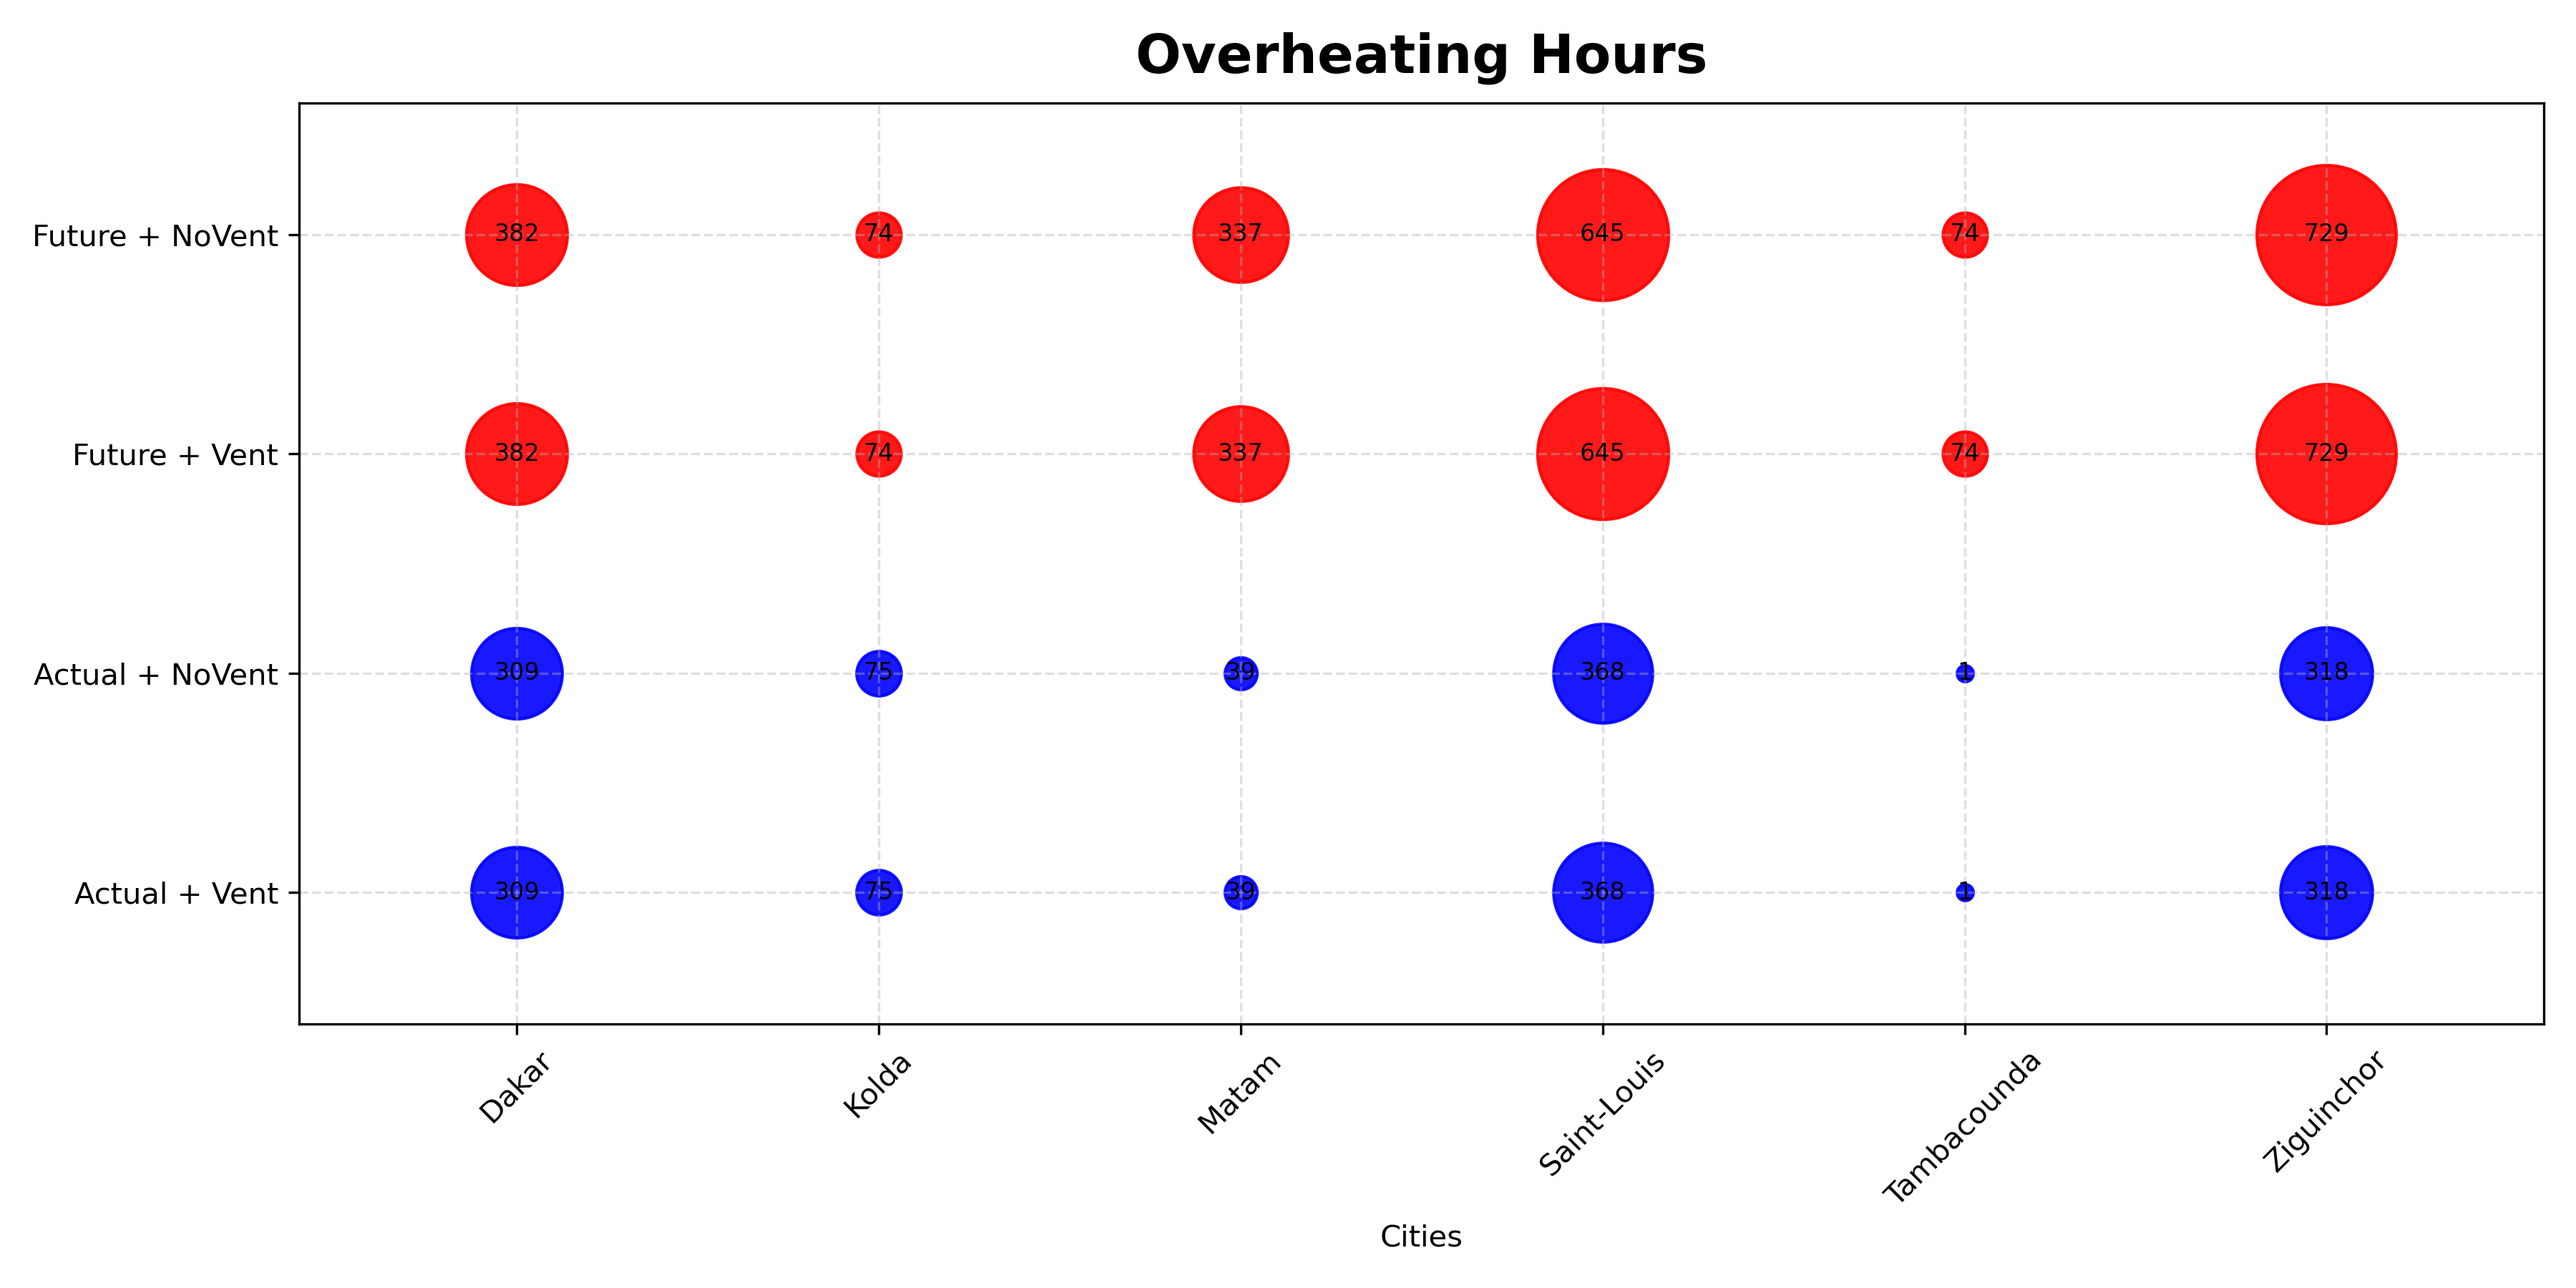
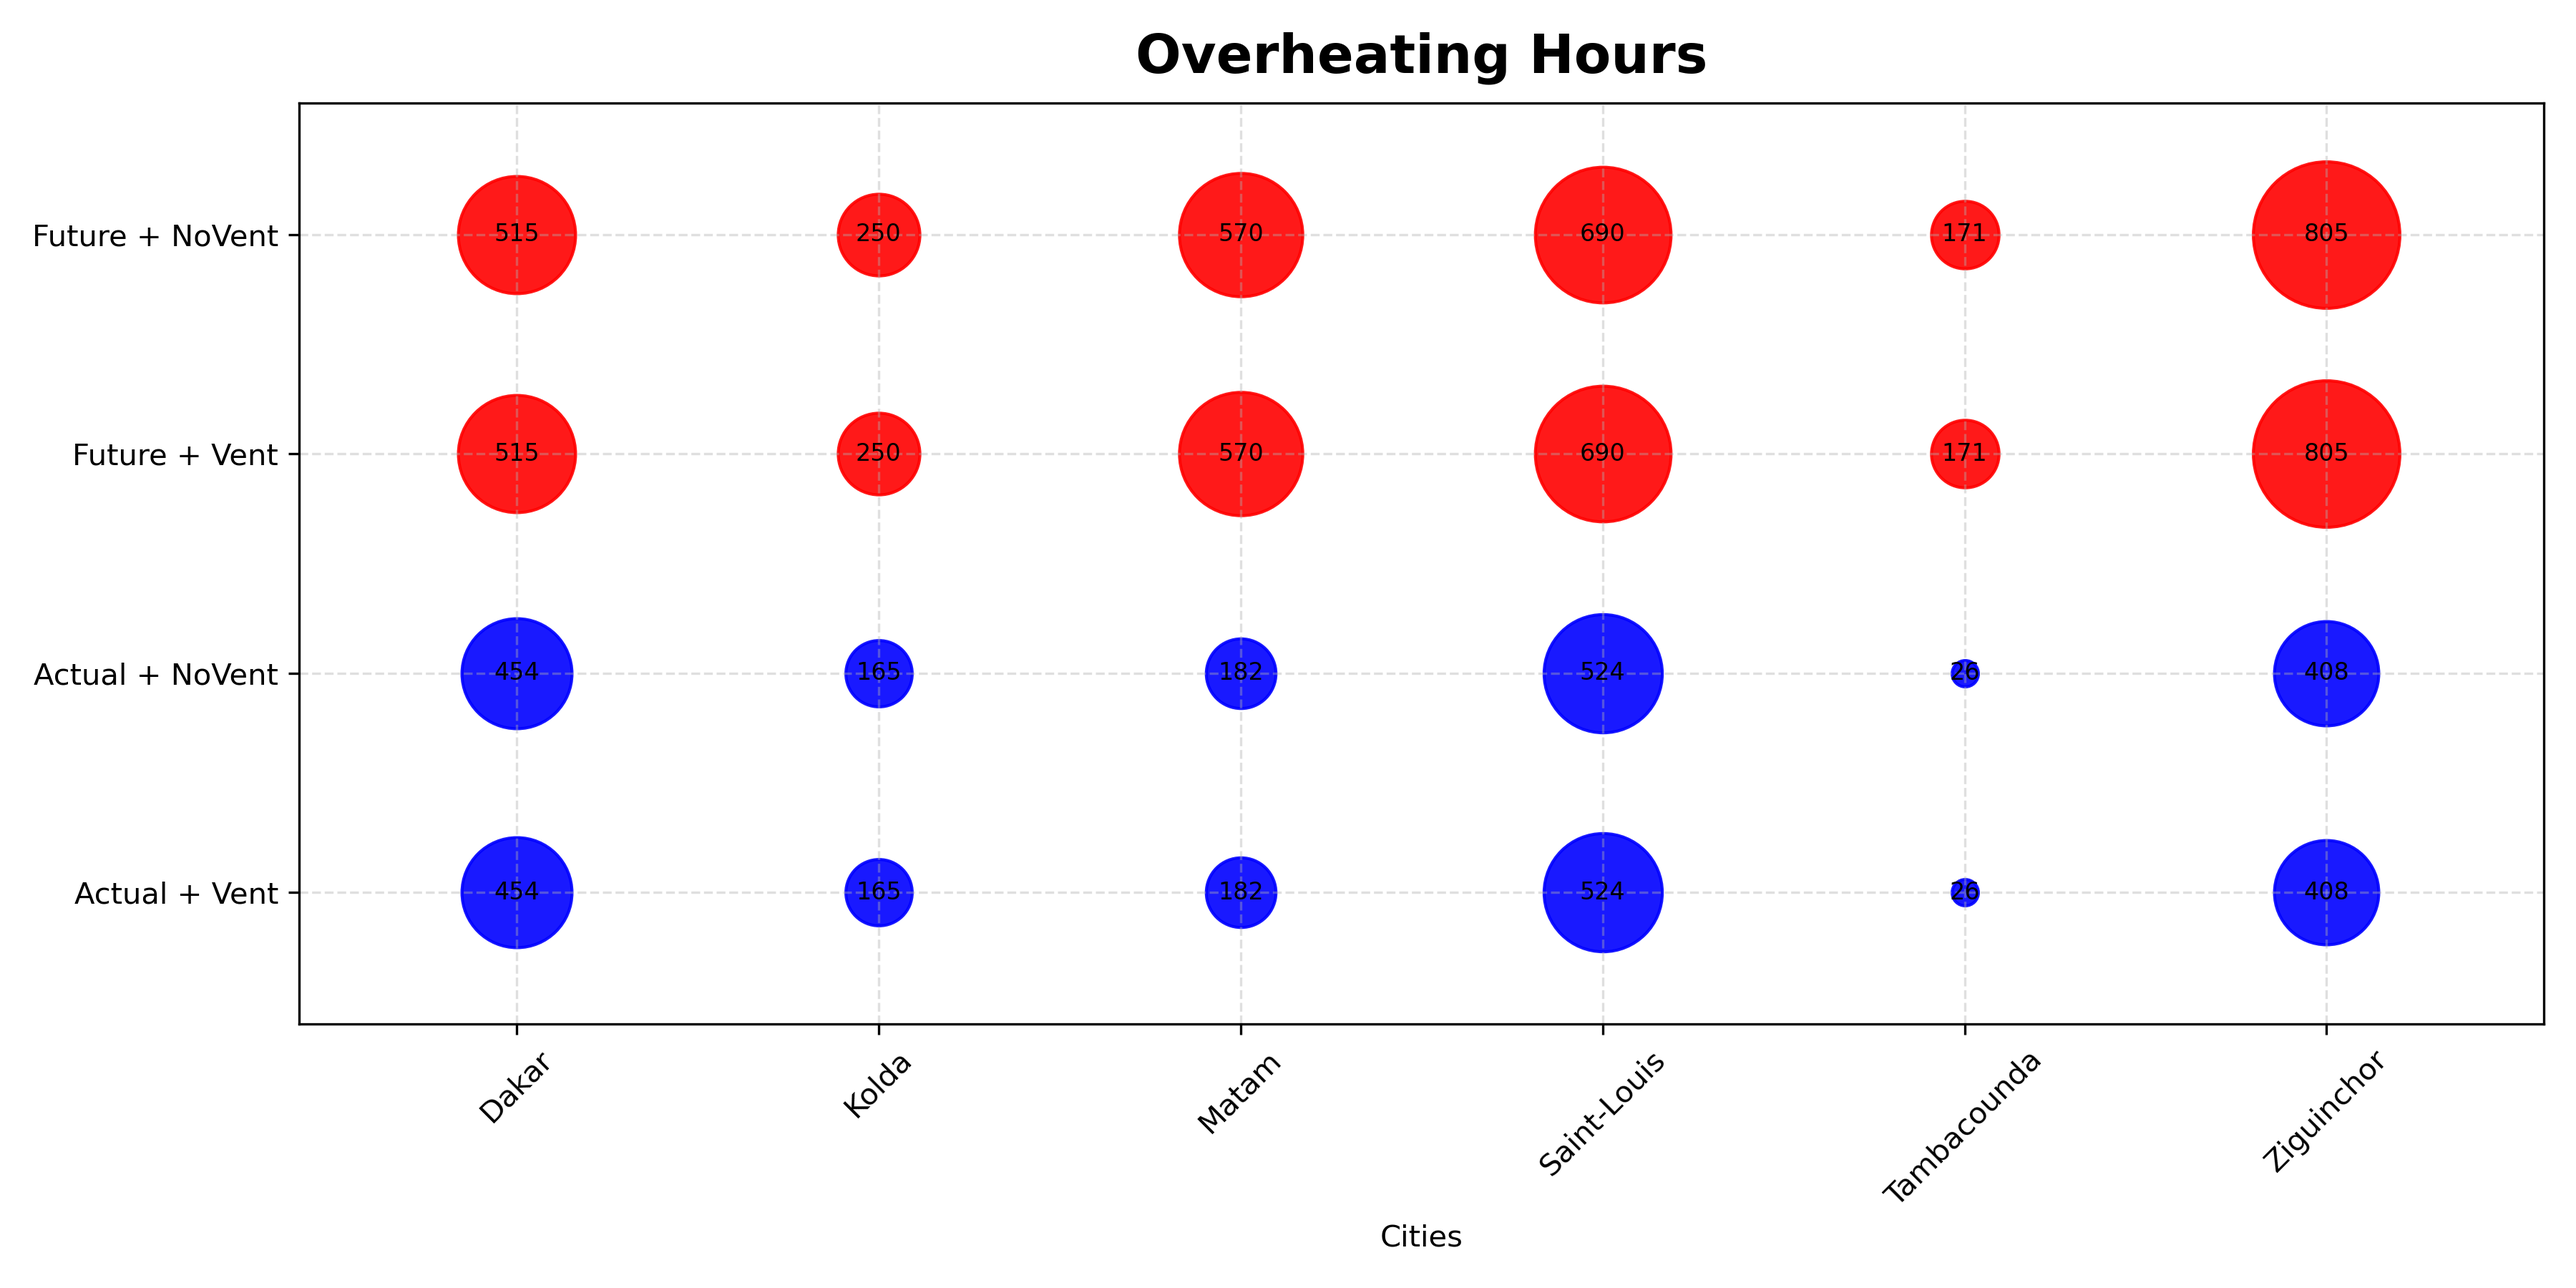
added adaptive overheating degrees module

diff --git a/simul/adaptive_overheating_degrees.py b/simul/adaptive_overheating_degrees.py
@@ -1,154 +1,136 @@
-"""Create boxplots of overheating degree distributions per sheet in compare.xlsx.
-
-Each sheet must contain `op_temp_actual` and `op_temp_future`. The script
-computes exceedance above a threshold (default 26°C) and draws side-by-side
-boxplots per sheet showing the 5th - 95th percentile whiskers for Actual and
-Future periods.
-"""
-import os
-from pathlib import Path
 import pandas as pd
 import numpy as np
 import matplotlib.pyplot as plt
 
+# ==============================
+# 1. Charger Excel
+# ==============================
 
-def apply_rcparams():
-    plt.rcParams.update({
-        'font.family': 'serif',
-        'font.serif': ['Times New Roman', 'Times', 'DejaVu Serif'],
-        'font.size': 9,
-        'axes.labelsize': 10,
-        'axes.titlesize': 11,
-        'xtick.labelsize': 9,
-        'ytick.labelsize': 9,
-        'legend.fontsize': 9,
-        'figure.titlesize': 12,
-        'lines.linewidth': 1.2,
-        'axes.linewidth': 0.7,
-        'xtick.major.width': 0.7,
-        'ytick.major.width': 0.7,
-        'xtick.direction': 'in',
-        'ytick.direction': 'in',
-    })
+file = "./simul/compare.xlsx"
+sheets = pd.read_excel(file, sheet_name=None)
 
+# ==============================
+# 2. Fonction degrés-heures
+# ==============================
 
-def collect_distributions(xls_path, threshold=26.0):
-    try:
-        sheets = pd.read_excel(xls_path, sheet_name=None)
-    except Exception as e:
-        raise SystemExit(f"Error reading {xls_path}: {e}")
+def compute_degree_hours(T_int, T_ext):
+    
+    T_rm = T_ext.rolling(window=720, min_periods=1).mean()
+    T_comf = 0.31 * T_rm + 17.8
+    T_lim = T_comf + 3.5
+    
+    overheating = (T_int - T_lim).clip(lower=0)
+    
+    return overheating
 
-    labels = []
-    actual_list = []
-    future_list = []
+# ==============================
+# 3. Collecte données
+# ==============================
 
-    for name, df in sheets.items():
-        if df is None or df.empty:
-            continue
-        if 'op_temp_actual' not in df.columns or 'op_temp_future' not in df.columns:
-            continue
+scenarios = [
+    "Actual + Vent",
+    "Actual + NoVent",
+    "Future + Vent",
+    "Future + NoVent"
+]
 
-        a = pd.to_numeric(df['op_temp_actual'], errors='coerce')
-        f = pd.to_numeric(df['op_temp_future'], errors='coerce')
+# helper to choose operative temperature with fallback when a column is missing or all NaN
+def get_operative_series(df, period, case):
+    key = f"operative_temp_{period}_{case}"
+    if key in df.columns and not df[key].isna().all():
+        return df[key]
+    # try alternative case
+    alt = 'no_vent' if case == 'vent' else 'vent'
+    alt_key = f"operative_temp_{period}_{alt}"
+    if alt_key in df.columns and not df[alt_key].isna().all():
+        return df[alt_key]
+    # fallback to NaN series
+    return pd.Series(np.nan, index=df.index)
 
-        exceed_a = (a - threshold).clip(lower=0).dropna().values
-        exceed_f = (f - threshold).clip(lower=0).dropna().values
+# compute total degree-hours per city and scenario
+rows = []
+for city, df in sheets.items():
+    for scen in scenarios:
+        period = 'actual' if 'Actual' in scen else 'future'
+        case = 'vent' if 'Vent' in scen else 'no_vent'
+        T_ext = df[f'outdoor_temp_{period}'] if f'outdoor_temp_{period}' in df.columns else pd.Series(np.nan, index=df.index)
+        T_int = get_operative_series(df, period, case)
+        overheating = compute_degree_hours(T_int, T_ext)
+        total_dh = overheating.sum() if overheating.notna().any() else np.nan
+        rows.append({'city': city, 'scenario': scen, 'total_dh': float(total_dh)})
 
-        if exceed_a.size == 0 and exceed_f.size == 0:
-            continue
+df_summary = pd.DataFrame(rows)
 
-        labels.append(str(name))
-        actual_list.append(np.asarray(exceed_a))
-        future_list.append(np.asarray(exceed_f))
+# pivot to wide format: rows=cities, cols=scenarios
+df_wide = df_summary.pivot(index='city', columns='scenario', values='total_dh')
+# ==============================================================
+# 4. FIGURE: boxplot per city (cities on x-axis)
+# ==============================================================
 
-    return labels, actual_list, future_list
+# build long-form per-hour overheating values for each city/scenario
+rows_long = []
+for city, df in sheets.items():
+    for scen in scenarios:
+        period = 'actual' if 'Actual' in scen else 'future'
+        case = 'vent' if 'Vent' in scen else 'no_vent'
+        T_ext = df[f'outdoor_temp_{period}'] if f'outdoor_temp_{period}' in df.columns else pd.Series(np.nan, index=df.index)
+        T_int = get_operative_series(df, period, case)
+        overheating = compute_degree_hours(T_int, T_ext)
+        for v in overheating.values:
+            rows_long.append({'city': city, 'scenario': scen, 'overheating': float(v) if not np.isnan(v) else np.nan})
 
+df_long = pd.DataFrame(rows_long)
+df_long = df_long.dropna(subset=['overheating'])
 
-def plot_box(labels, actual_list, future_list, out_path=None, show_means=True):
-    if out_path is None:
-        out_dir = Path('simul') / 'figures'
-        out_dir.mkdir(parents=True, exist_ok=True)
-        out_path = out_dir / 'overheating_boxplot.png'
-    else:
-        out_path = Path(out_path)
-        out_path.parent.mkdir(parents=True, exist_ok=True)
+# plotting
+plt.rcParams.update({'font.family': 'serif', 'font.size': 10})
 
-    apply_rcparams()
-
-    # Filter empty
-    filtered = [(lab, a, f) for lab, a, f in zip(labels, actual_list, future_list)
-                if (a is not None and len(a) > 0) or (f is not None and len(f) > 0)]
-
-    if not filtered:
-        print('No valid data to plot.')
-        return
-
-    labels_f, actual_f, future_f = zip(*filtered)
-    n = len(labels_f)
-    x = np.arange(n)
-    fig_w = max(8, n * 0.6)
-    fig_h = 5
-    fig, ax = plt.subplots(figsize=(fig_w, fig_h))
-
-    width = 0.35
-    pos_a = x - width / 2
-    pos_f = x + width / 2
-
-    bp_a = ax.boxplot(actual_f, positions=pos_a, widths=width * 0.9, whis=(5, 95), patch_artist=True,
-                      showfliers=False)
-    bp_f = ax.boxplot(future_f, positions=pos_f, widths=width * 0.9, whis=(5, 95), patch_artist=True,
-                      showfliers=False)
-
-    for box in bp_a['boxes']:
-        box.set(facecolor='#1f77b4', alpha=0.85, linewidth=0.7)
-    for median in bp_a['medians']:
-        median.set(color='black', linewidth=1.0)
-
-    for box in bp_f['boxes']:
-        box.set(facecolor='#d62728', alpha=0.85, linewidth=0.7)
-    for median in bp_f['medians']:
-        median.set(color='black', linewidth=1.0)
-
-    for whisk in bp_a['whiskers'] + bp_a.get('caps', []):
-        whisk.set(color='black', linewidth=0.7)
-    for whisk in bp_f['whiskers'] + bp_f.get('caps', []):
-        whisk.set(color='black', linewidth=0.7)
-
-    ax.set_xticks(x)
-    ax.set_xticklabels(labels_f, rotation=45, ha='right')
-    ax.set_ylabel('Overheating degree (°C)')
-    ax.set_title('Indoor overheating Degrees Distribution')
-
-    import matplotlib.patches as mpatches
-    p_act = mpatches.Patch(facecolor='#1f77b4', alpha=0.85, label='Actual')
-    p_fut = mpatches.Patch(facecolor='#d62728', alpha=0.85, label='Future')
-    ax.legend(handles=[p_act, p_fut], frameon=True)
-
-    if show_means:
-        means_a = [np.nan if (a is None or len(a) == 0) else float(np.nanmean(a)) for a in actual_f]
-        means_f = [np.nan if (f is None or len(f) == 0) else float(np.nanmean(f)) for f in future_f]
-        for xi, m in zip(pos_a, means_a):
-            if not np.isnan(m):
-                ax.scatter(xi, m, marker='D', s=40, facecolor='white', edgecolor='black', zorder=6)
-        for xi, m in zip(pos_f, means_f):
-            if not np.isnan(m):
-                ax.scatter(xi, m, marker='D', s=40, facecolor='#d62728', edgecolor='black', zorder=6)
-
+# preferred: seaborn boxplot (nicer grouping). Fallback to matplotlib if seaborn not available.
+try:
+    import seaborn as sns
+    sns.set_style('whitegrid')
+    fig, ax = plt.subplots(figsize=(14, 7))
+    palette = {'Actual + Vent': '#0072B2', 'Actual + NoVent': '#D55E00', 'Future + Vent': '#56B4E9', 'Future + NoVent': '#E69F00'}
+    sns.boxplot(x='city', y='overheating', hue='scenario', data=df_long,
+                order=df_wide.index.tolist(), hue_order=scenarios, palette=palette, showmeans=True, ax=ax)
+    ax.set_ylabel('Degrés-heures de surchauffe (°C·h)')
+    ax.set_title('Distribution horaire de la surchauffe par ville et scénario')
+    ax.legend(title='Scénarios', bbox_to_anchor=(1.02, 1), loc='upper left')
+    plt.xticks(rotation=45, ha='right')
     fig.tight_layout()
-    fig.savefig(out_path, dpi=300, bbox_inches='tight')
+    fig.savefig('./simul/figures/boxplot_degree_hours_by_city.png', dpi=300)
     plt.show()
-    print(f"Saved boxplot to {out_path}")
-
-
-if __name__ == '__main__':
-    import argparse
-
-    parser = argparse.ArgumentParser()
-    parser.add_argument('--input', '-i', default=os.path.join('simul', 'compare.xlsx'))
-    parser.add_argument('--threshold', '-t', type=float, default=26.0)
-    parser.add_argument('--out', '-o', default=None)
-    parser.add_argument('--no-mean', action='store_true', help='Do not overlay mean markers')
-    args = parser.parse_args()
-
-    labels, actual_list, future_list = collect_distributions(args.input, threshold=args.threshold)
-    plot_box(labels, actual_list, future_list, out_path=args.out, show_means=not args.no_mean)
+except Exception:
+    # matplotlib fallback: grouped boxplots using positions
+    fig, ax = plt.subplots(figsize=(14, 7))
+    cities = df_wide.index.tolist()
+    n_scen = len(scenarios)
+    width = 0.7 / n_scen
+    positions = []
+    data = []
+    pos = []
+    for i, city in enumerate(cities):
+        for k, scen in enumerate(scenarios):
+            vals = df_long[(df_long['city'] == city) & (df_long['scenario'] == scen)]['overheating'].values
+            data.append(vals)
+            positions.append(i - 0.35 + k * width + width / 2)
+    bp = ax.boxplot(data, positions=positions, widths=width * 0.9, patch_artist=True, manage_ticks=False)
+    # color boxes
+    colors = ['#0072B2', '#D55E00', '#56B4E9', '#E69F00']
+    for patch, color in zip(bp['boxes'], colors * len(cities)):
+        patch.set_facecolor(color)
+        patch.set_edgecolor('k')
+    # x-ticks at city centers
+    centers = [i for i in range(len(cities))]
+    ax.set_xticks(centers)
+    ax.set_xticklabels(cities, rotation=45, ha='right')
+    # create custom legend
+    from matplotlib.patches import Patch
+    legend_handles = [Patch(facecolor=colors[i], edgecolor='k', label=scenarios[i]) for i in range(n_scen)]
+    ax.legend(handles=legend_handles, title='Scénarios', bbox_to_anchor=(1.02, 1), loc='upper left')
+    ax.set_ylabel('Degrés-heures de surchauffe (°C·h)')
+    ax.set_title('Distribution horaire de la surchauffe par ville et scénario')
+    ax.grid(axis='y', linestyle='--', alpha=0.3)
+    fig.tight_layout()
+    fig.savefig('./simul/figures/boxplot_degree_hours_by_city.png', dpi=300)
+    plt.show()

diff --git a/simul/adaptive_overheat_hours.py b/simul/adaptive_overheat_hours.py
@@ -11,13 +11,13 @@ sheets = pd.read_excel(file, sheet_name=None)
 
 cities = list(sheets.keys())
 
-# ==============================
-# 2. Fonction surchauffe
-# ==============================
+# ==================================
+# 2. Fonction Surchauffe Adaptative
+# ==================================
 
 def compute_dh(T_int, T_ext):
     
-    T_rm = T_ext.rolling(window=168, min_periods=1).mean()
+    T_rm = T_ext.rolling(window=720, min_periods=1).mean()
     T_comf = 0.31 * T_rm + 17.8
     T_lim = T_comf + 3.5
     
